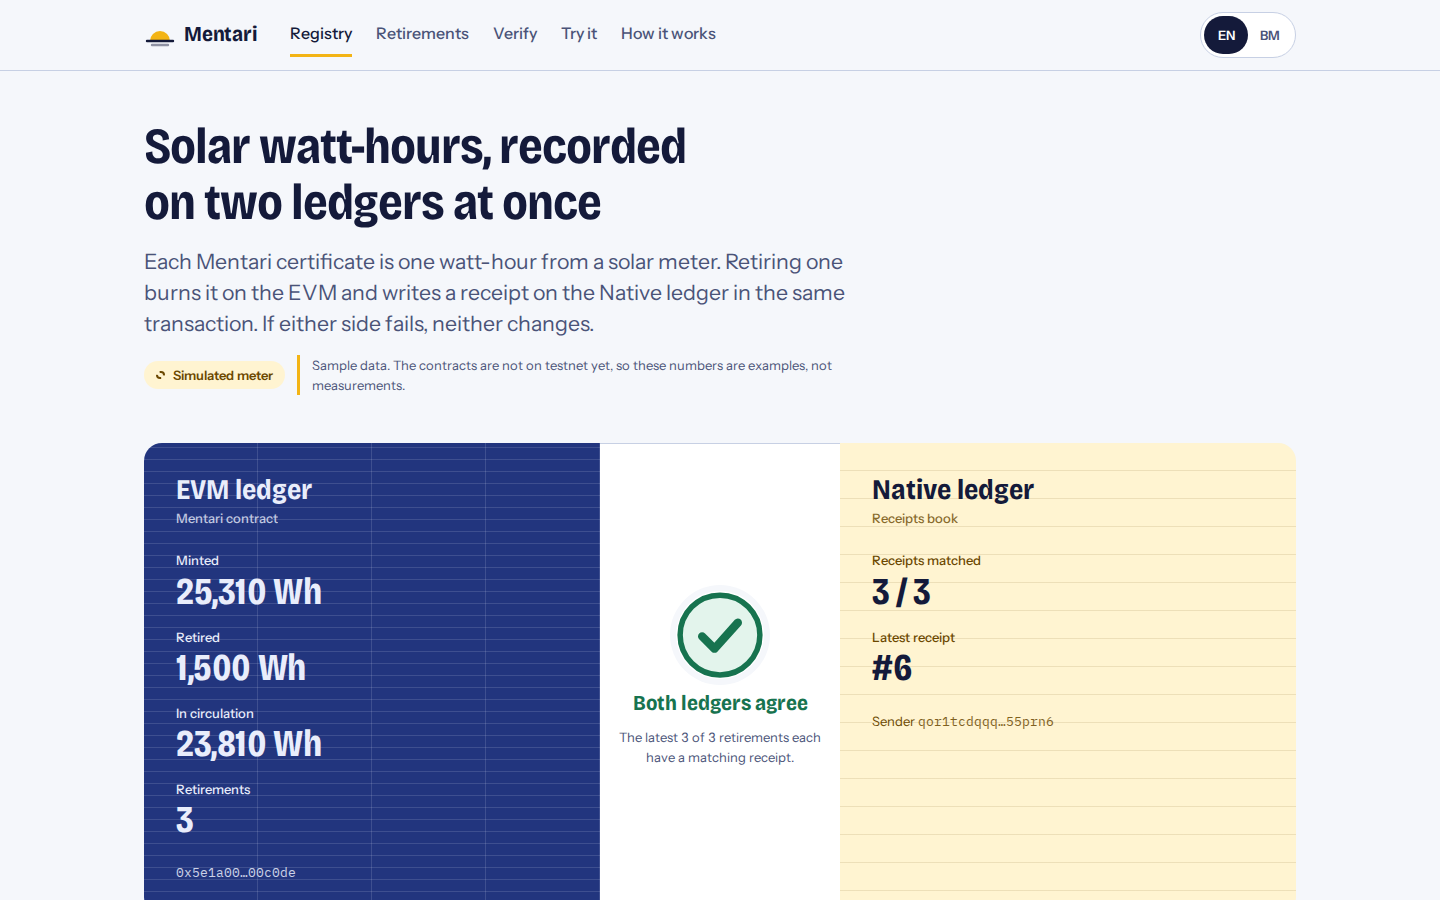
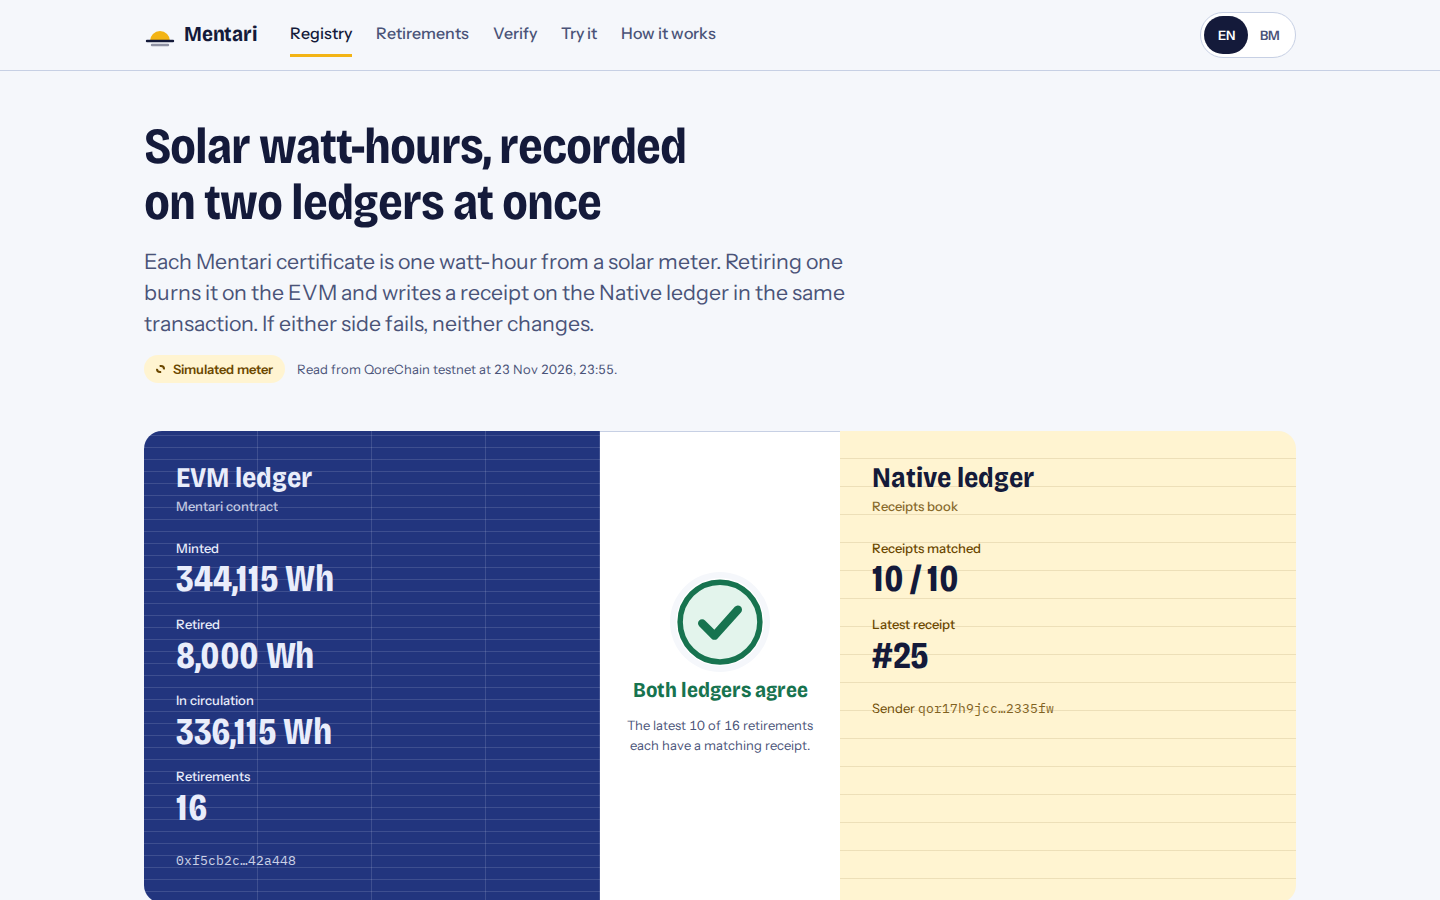
Take the README and slide screenshots from the live site

diff --git a/web/og/render-shots.ts b/web/og/render-shots.ts
@@ -1,0 +1,34 @@
+// Captures the screenshots in config/app.json web.shots from the live site, so the READMEs and the slides show
+// testnet data, not the local fixture. Phones use WebKit with the Playwright device; the rest use Chromium.
+// Run by hand when the site changes: `pnpm --filter @mentari/web shots`.
+import { statSync, writeFileSync } from "node:fs";
+import { join } from "node:path";
+import { chromium, devices, webkit, type Browser } from "@playwright/test";
+import app from "../../config/app.json" with { type: "json" };
+import { repoDir } from "./assets.js";
+import { shotList } from "./shots.js";
+
+const { shots, share } = app.web;
+const list = shotList(shots.list, Object.keys(devices));
+const browsers: Partial<Record<"chromium" | "webkit", Browser>> = {};
+try {
+  for (const shot of list) {
+    const engine = shot.device ? "webkit" : "chromium";
+    const browser = (browsers[engine] ??= await (engine === "webkit" ? webkit : chromium).launch());
+    const context = await browser.newContext(
+      shot.device ? { ...devices[shot.device] } : { viewport: { width: shot.width!, height: shot.height! } },
+    );
+    const page = await context.newPage();
+    await page.goto(`${share.siteUrl}${shot.path}`, { waitUntil: "networkidle" });
+    await page.waitForSelector(shot.ready, { timeout: 30_000 });
+    await page.evaluate(() => document.fonts.ready.then(() => undefined));
+    const out = join(repoDir, shot.out);
+    writeFileSync(out, await page.screenshot({ type: "png" }));
+    await context.close();
+    const kb = Math.ceil(statSync(out).size / 1024);
+    if (kb > shots.maxKb) throw new Error(`${shot.out} is ${kb} KB, over web.shots.maxKb ${shots.maxKb}`);
+    console.log(`wrote ${shot.out} (${kb} KB) from ${share.siteUrl}${shot.path} in ${engine}`);
+  }
+} finally {
+  for (const b of Object.values(browsers)) await b?.close();
+}

diff --git a/web/test/shots.test.ts b/web/test/shots.test.ts
@@ -1,0 +1,36 @@
+import { readFileSync } from "node:fs";
+import { describe, expect, it } from "vitest";
+import { shotList } from "../og/shots.js";
+import app from "../../config/app.json" with { type: "json" };
+
+const DEVICES = ["iPhone 13"];
+const ok = { path: "/", ready: ".x", out: "docs/images/a.png", width: 10, height: 10 };
+
+/** Width and height from the IHDR chunk of a PNG file in the repository. */
+function pngSize(rel: string): { width: number; height: number } {
+  const head = readFileSync(new URL(`../../${rel}`, import.meta.url)).subarray(0, 24);
+  expect(head.subarray(12, 16).toString("latin1")).toBe("IHDR");
+  return { width: head.readUInt32BE(16), height: head.readUInt32BE(20) };
+}
+
+describe("web.shots", () => {
+  it("accepts the list in config/app.json", () => {
+    expect(shotList(app.web.shots.list, DEVICES).length).toBe(app.web.shots.list.length);
+  });
+
+  it("refuses entries that would write outside the repository, repeat a file or have no size", () => {
+    expect(() => shotList([], DEVICES)).toThrow("non-empty");
+    expect(() => shotList([{ ...ok, out: "../x.png" }], DEVICES)).toThrow(".out");
+    expect(() => shotList([{ ...ok, out: "/tmp/x.png" }], DEVICES)).toThrow(".out");
+    expect(() => shotList([ok, ok], DEVICES)).toThrow("twice");
+    expect(() => shotList([{ ...ok, width: undefined }], DEVICES)).toThrow("width and height");
+    expect(() => shotList([{ ...ok, device: "Nokia 3310" }], DEVICES)).toThrow("unknown device");
+    expect(() => shotList([{ ...ok, path: "try" }], DEVICES)).toThrow(".path");
+  });
+
+  it("each committed shot without a device has the configured size", () => {
+    for (const s of shotList(app.web.shots.list, DEVICES)) {
+      if (s.device === undefined) expect(pngSize(s.out), s.out).toEqual({ width: s.width, height: s.height });
+    }
+  });
+});

diff --git a/web/og/shots.ts b/web/og/shots.ts
@@ -1,0 +1,37 @@
+// The list of live-site screenshots in config/app.json web.shots, checked before any browser starts.
+
+export interface ShotSpec {
+  path: string;
+  ready: string;
+  out: string;
+  device?: string;
+  width?: number;
+  height?: number;
+}
+
+/** Checks each entry of web.shots.list and returns it typed; throws with the entry index on the first problem. */
+export function shotList(list: unknown, knownDevices: readonly string[]): ShotSpec[] {
+  if (!Array.isArray(list) || list.length === 0) throw new Error("web.shots.list: expected a non-empty array");
+  const outs = new Set<string>();
+  return list.map((raw, i) => {
+    const at = `web.shots.list[${i}]`;
+    if (typeof raw !== "object" || raw === null) throw new Error(`${at}: expected an object`);
+    const e = raw as Record<string, unknown>;
+    for (const k of ["path", "ready", "out"] as const) {
+      if (typeof e[k] !== "string" || e[k] === "") throw new Error(`${at}.${k}: expected a non-empty string`);
+    }
+    const spec = e as unknown as ShotSpec;
+    if (!spec.path.startsWith("/")) throw new Error(`${at}.path: must start with /`);
+    if (!spec.out.endsWith(".png") || spec.out.startsWith("/") || spec.out.includes("..")) {
+      throw new Error(`${at}.out: expected a .png path inside the repository`);
+    }
+    if (outs.has(spec.out)) throw new Error(`${at}.out: ${spec.out} is listed twice`);
+    outs.add(spec.out);
+    if (spec.device !== undefined) {
+      if (!knownDevices.includes(spec.device)) throw new Error(`${at}.device: unknown device ${spec.device}`);
+    } else if (!(Number.isInteger(spec.width) && Number.isInteger(spec.height) && spec.width! > 0 && spec.height! > 0)) {
+      throw new Error(`${at}: give a device, or a positive whole width and height`);
+    }
+    return spec;
+  });
+}
